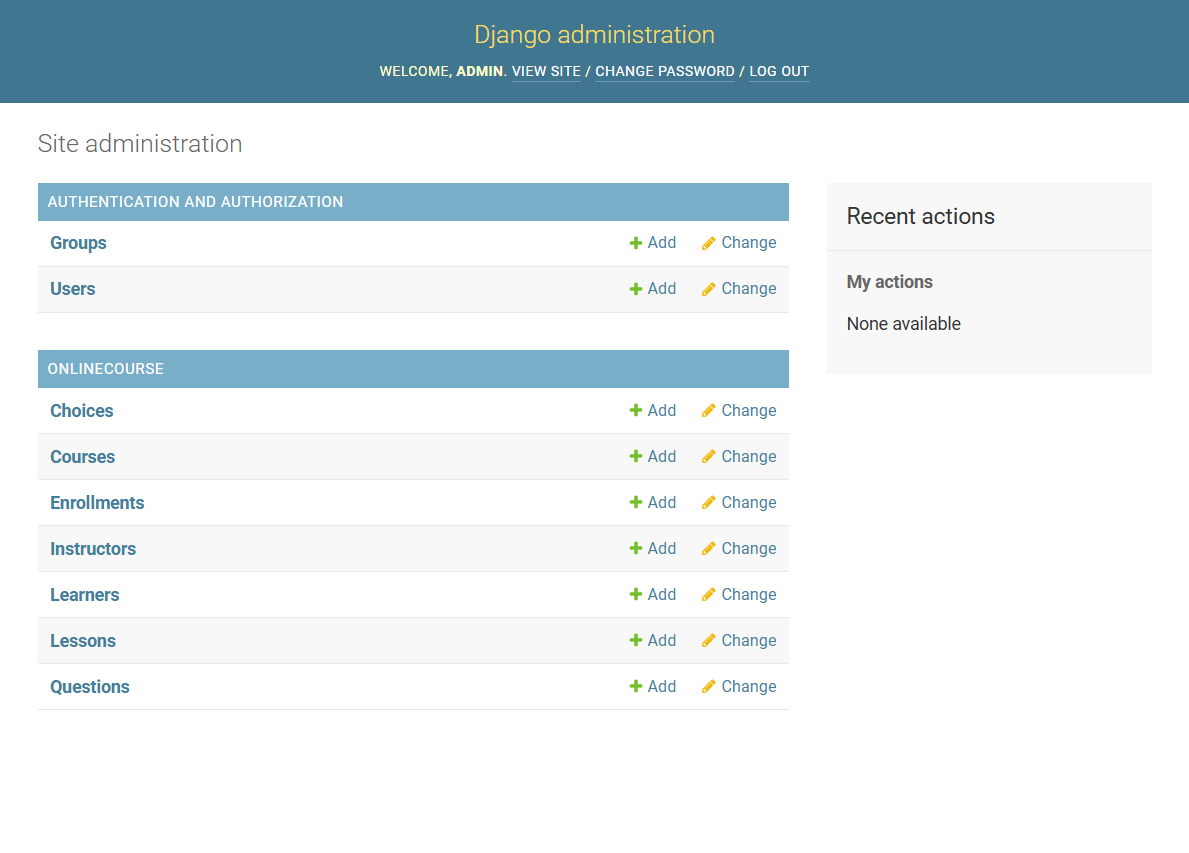
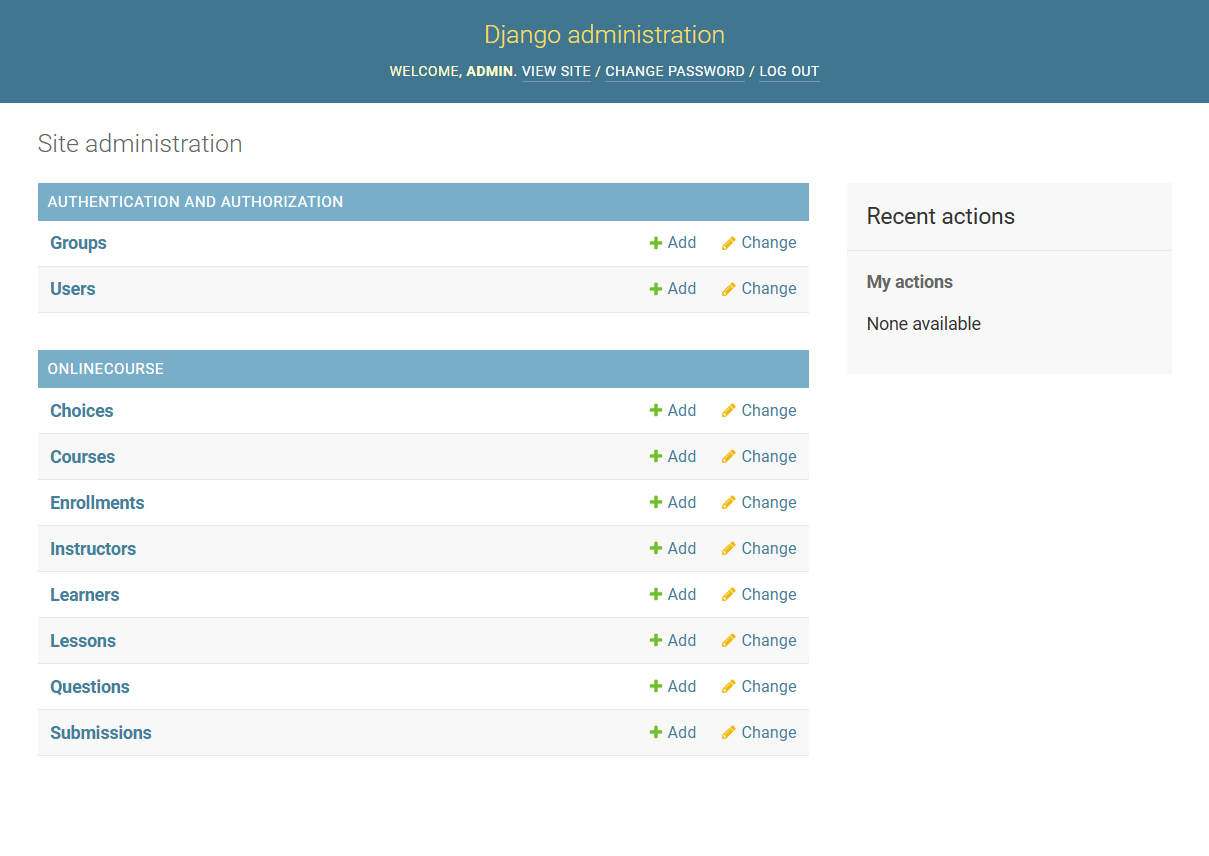
Fix admin submission model and update rubric URL routes

diff --git a/onlinecourse_django_project/onlinecourse/urls.py b/onlinecourse_django_project/onlinecourse/urls.py
@@ -12,9 +12,16 @@ urlpatterns = [
     path('<int:pk>/', views.CourseDetailView.as_view(), name='course_details'),
     path('<int:course_id>/enroll/', views.enroll, name='enroll'),
     path('<int:course_id>/submit/', views.submit, name='submit'),
+    # Alias paths added for strict graders that expect an explicit 'course/' prefix.
+    path('course/<int:course_id>/submit/', views.submit, name='submit_course'),
     path(
         '<int:course_id>/submission/<int:submission_id>/result/',
         views.show_exam_result,
         name='show_exam_result'
+    ),
+    path(
+        'course/<int:course_id>/submission/<int:submission_id>/result/',
+        views.show_exam_result,
+        name='show_exam_result_course'
     ),
 ] + static(settings.MEDIA_URL, document_root=settings.MEDIA_ROOT)

diff --git a/onlinecourse_django_project/onlinecourse/admin.py b/onlinecourse_django_project/onlinecourse/admin.py
@@ -1,5 +1,5 @@
 from django.contrib import admin
-from .models import Course, Lesson, Instructor, Learner, Enrollment, Question, Choice
+from .models import Course, Lesson, Instructor, Learner, Enrollment, Question, Choice, Submission
 
 
 # Inlines for Admin
@@ -40,3 +40,4 @@ admin.site.register(Learner)
 admin.site.register(Enrollment)
 admin.site.register(Question, QuestionAdmin)
 admin.site.register(Choice)
+admin.site.register(Submission)
